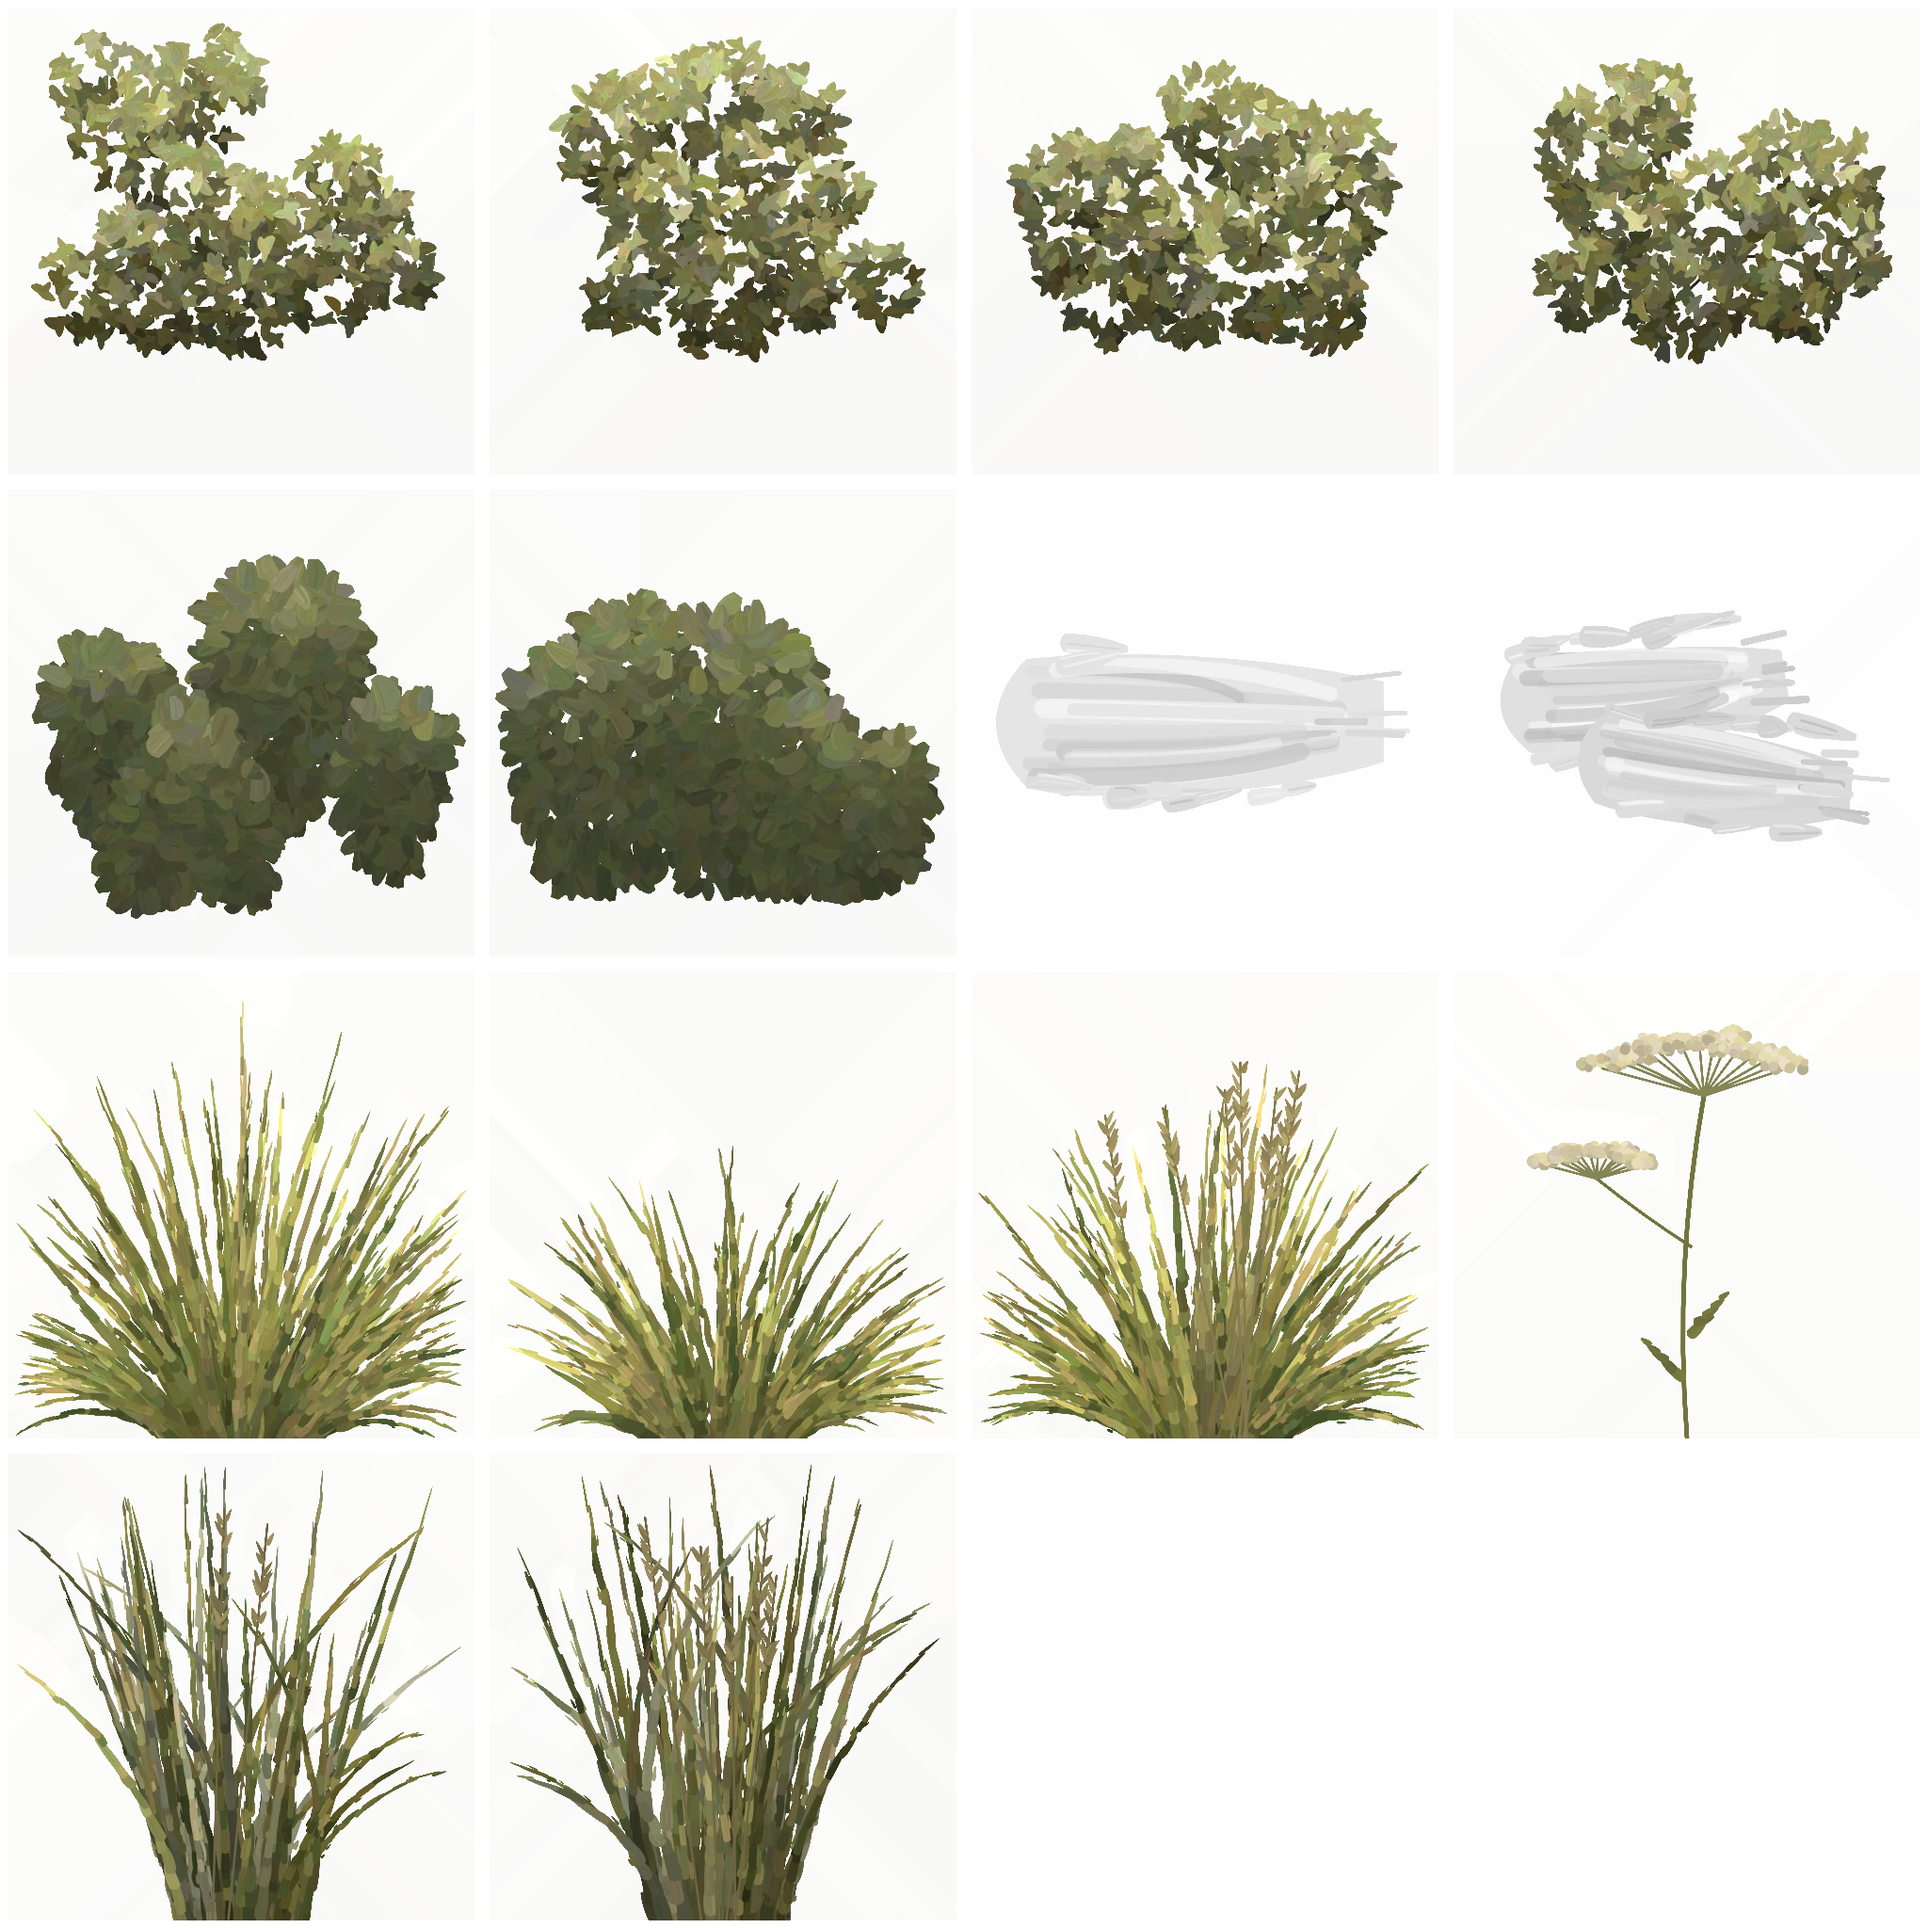
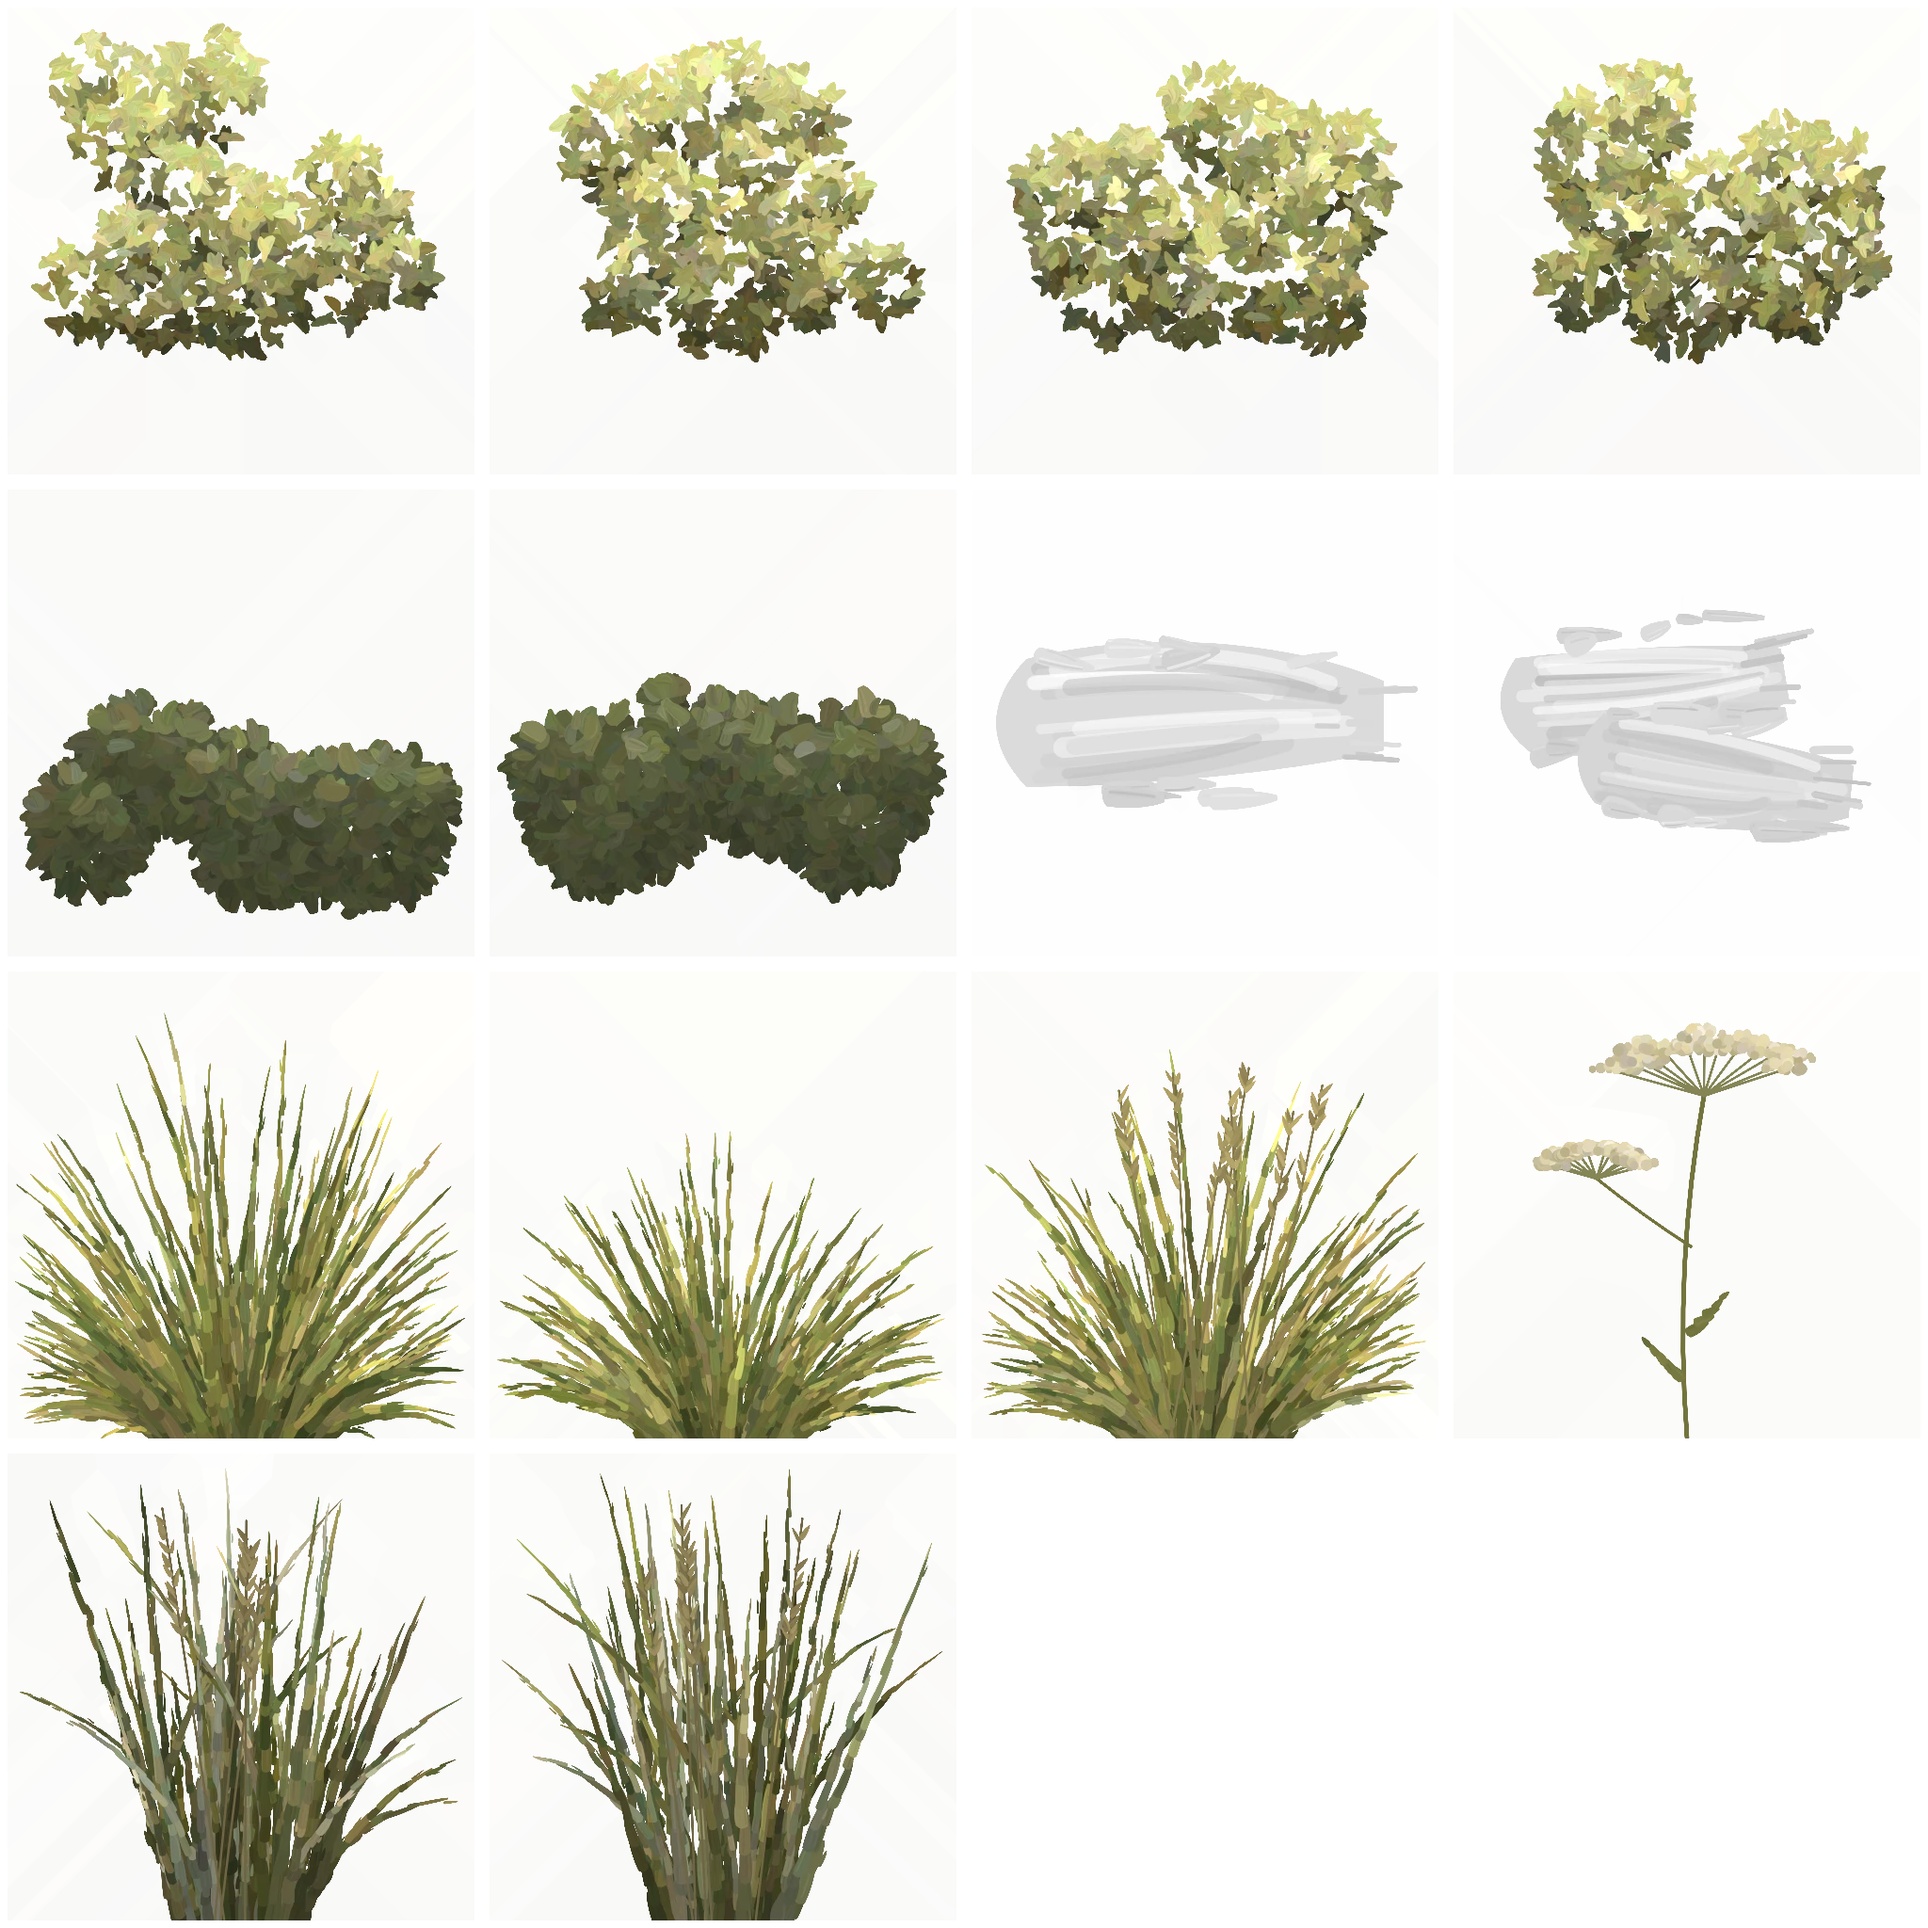
Brighten the oak cells at source, and break the woods skyline

diff --git a/public/space/scene/trees.js b/public/space/scene/trees.js
@@ -22,8 +22,6 @@ const stream = seed => { let n = 0; return () => hash(n++, 23, seed); };
 const SUN = [Math.sin(115 * DEG), Math.cos(115 * DEG), 0];
 // The trunk keeps this far inside its collider (space.colliders' circle) up to above head height.
 const TRUNK_CLEAR = .12;
-// The oak cells are painted for shade; lit from beneath the canopy they need lifting to read as the painting's sunlit leaves.
-const LEAF_LIFT = 1.75;
 
 // A point and radius `f` of the way along a polyline of [x, y, z, radius], by length.
 function along(points, f) {
@@ -93,7 +91,8 @@ export function buildOak(THREE, {space, dressing, art}) {
     // the spray runs outward from the trunk, so neighbouring clumps reach toward each other rather than rounding off
     const out = V.norm([clump.center[0] - ox, clump.center[1] - oy, 0]), side = [-out[1], out[0], 0], seed = hash(i, 0, 61) * 1000;
     const n = Math.round(10 + R * 10);
-    for (let k = 0, guard = 0; k < n && guard < n * 20; guard++) {
+    let k = 0;
+    for (let guard = 0; k < n && guard < n * 20; guard++) {
       // a point in a flattened, stretched ellipsoid, weighted to the shell, holed where the noise is low so sky shows through
       const u = r() * TAU, w = Math.acos(2 * r() - 1), f = Math.sqrt(.25 + .75 * r());
       const local = [Math.sin(w) * Math.cos(u) * f, Math.sin(w) * Math.sin(u) * f, Math.cos(w) * f];
@@ -103,7 +102,8 @@ export function buildOak(THREE, {space, dressing, art}) {
       // half the cards stand (facing outward, give or take), the rest lie tilted so the clump has body from beneath
       let normal, up;
       if (k % 2 === 0) {
-        const a = Math.atan2(c[0] - ox, c[1] - oy) + (r() - .5) * 2.2, tilt = (r() - .3) * .7;
+        // facing outward within ±40°, and tipped toward the ground so a visitor below never sees one edge-on
+        const a = Math.atan2(c[0] - ox, c[1] - oy) + (r() - .5) * 1.4, tilt = -(.4 + r() * .45);
         normal = V.norm([Math.sin(a) * Math.cos(tilt), Math.cos(a) * Math.cos(tilt), Math.sin(tilt)]);
         const [right, up0] = basis(normal), turn = (r() - .5) * .5; up = V.add(V.scale(up0, Math.cos(turn)), right, Math.sin(turn));
       } else {
@@ -114,12 +114,13 @@ export function buildOak(THREE, {space, dressing, art}) {
       const across = V.norm(V.cross(up, normal)), size = .75 + r() * .5;
       // lighter and warmer up top and on the sun side, darker and cooler beneath and deep inside
       const h = clamp01((c[2] - zLow) / (zHigh - zLow)), sun = V.dot(out, SUN), depth = 1 - f, under = clamp01(-local[2]);
-      const k0 = LEAF_LIFT * (1.0 + .5 * h + .2 * sun) * (1 - .22 * depth) * (1 - .22 * under) * (.9 + r() * .2);
-      const top = mix([k0 * .84, k0 * .94, k0 * 1.0], [k0 * 1.1, k0 * 1.04, k0 * .74], clamp01(h + .3 * sun));
+      const k0 = (.86 + .26 * h + .1 * sun) * (1 - .2 * depth) * (1 - .2 * under) * (.94 + r() * .12);
+      const top = mix([k0 * .88, k0 * .96, k0 * 1.0], [k0 * 1.04, k0 * 1.0, k0 * .82], clamp01(h + .3 * sun));
       leaves.add(c, V.scale(across, size), V.scale(up, size), cells[Math.floor(r() * cells.length)], top.map(v => v * .8), top,
         V.norm(V.add(V.norm(V.sub(c, crown)), [0, 0, .7])), r() < .5);
       k++;
     }
+    if (k < n) throw new Error(`oak clump ${clump.id} placed only ${k} of ${n} leaf cards`);
     clumps.push({id: clump.id, start, count: leaves.count - start});
   });
 
@@ -127,6 +128,7 @@ export function buildOak(THREE, {space, dressing, art}) {
   const mesh = (name, geometry, material) => { const m = new THREE.Mesh(geometry, material); m.name = name; return m; };
   const merged = list => { const geometry = mergeGeometries(THREE, list); for (const x of list) x.dispose(); return geometry; };
   const leafMesh = mesh('leaves', leaves.geometry(THREE), cardMaterial(THREE, art.cards, SPACE_ART));
+  // Each clump's cards, for swaying it later: `start` and `count` are in cards (4 vertices and 6 indices per card), in build order.
   leafMesh.userData.clumps = clumps;
   const object = new THREE.Group(); object.name = 'oak';
   // the limbs take the trunk's tint, so the bark runs on unbroken where they leave it
@@ -144,27 +146,29 @@ export function buildWoods(THREE, {space, dressing, art}) {
   const SAGE = [1.22, 1.3, 1.12], MOSS = [1.24, 1.28, .9], FAR = [1.6, 1.72, 1.85], TRUNK = [.07, .06, .045];
   const far = Math.max(...plan.map(c => Math.hypot(c.center[0] - yard[0], c.center[1] - yard[1])));
   const near = Math.min(...plan.map(c => Math.hypot(c.center[0] - yard[0], c.center[1] - yard[1])));
-  for (const clump of plan) {
-    const [x, y, cz] = clump.center, ground = terrainHeight(space, x, y), tall = (cz - ground) / .55, R = clump.radius;
+  plan.forEach((clump, i) => {
+    // neighbours differ a good deal in height, so the crowns' tops step and overlap rather than repeat
+    const [x, y, cz] = clump.center, ground = terrainHeight(space, x, y), tall = Math.min(12, (cz - ground) / .55 * (.7 + .5 * hash(i, 3, 73))), R = clump.radius;
     const d = clamp01((Math.hypot(x - yard[0], y - yard[1]) - near) / (far - near)), hue = mix(SAGE, MOSS, noise(x * .08, y * .08, 71));
     const base = mix(hue, FAR, .6 * d), toYard = V.norm([yard[0] - x, yard[1] - y, 0]);
-    const n = Math.round(12 + R * 4 + tall);
+    const n = Math.round(10 + R * 4 + tall * 2.2);
     for (let k = 0; k < n; k++) {
-      // a crown narrowing upward, from a quarter of the way up to the top, its outline broken by the cards' own edges, and
-      // every fourth card low in the understorey so no sky shows under the mass
-      const h = Math.sqrt(r()), spread = R * 1.1 * (1 - .4 * h) * Math.sqrt(r()), a = r() * TAU;
-      const c = [x + Math.sin(a) * spread, y + Math.cos(a) * spread, ground + tall * (k % 4 ? .24 + .66 * h : .1 + .2 * h)];
+      // a crown from a quarter of the way up; its top cards are pushed out to the sides and a little down instead of piled on
+      // the crown, so the skyline is broad and ragged, not a dome; every fourth card is low in the understorey so no sky shows
+      // under the mass
+      const h = r(), top = h > .72, spread = R * (top ? .45 + r() * .55 : 1.2 * Math.sqrt(r())), a = r() * TAU;
+      const c = [x + Math.sin(a) * spread, y + Math.cos(a) * spread, ground + tall * (k % 4 ? .26 + .64 * h - (top ? .06 + .08 * r() : 0) : .1 + .2 * h)];
       const turn = (r() - .5) * 1.6, normal = V.norm([toYard[0] * Math.cos(turn) - toYard[1] * Math.sin(turn), toYard[0] * Math.sin(turn) + toYard[1] * Math.cos(turn), (r() - .5) * .3]);
       const [right, up0] = basis(normal), lean = (r() - .5) * .3, up = V.add(V.scale(up0, Math.cos(lean)), right, Math.sin(lean)), across = V.norm(V.cross(up, normal));
       const size = (1.5 + r() * 1.0) * (.75 + .25 * R / 4), k0 = (.9 + .12 * h) * (.95 + r() * .1);
-      cards.add(c, V.scale(across, size), V.scale(up, size * .9), cells.woods[k % 2], base.map(v => v * k0 * .85), base.map(v => v * k0),
+      cards.add(c, V.scale(across, size * 1.05), V.scale(up, size), cells.woods[k % 2], base.map(v => v * k0 * .85), base.map(v => v * k0),
         V.norm(V.add(toYard, [0, 0, 1])), r() < .5);
     }
     for (let k = 0; k < 2; k++) {
       const tx = x + (r() - .5) * R * .6, ty = y + (r() - .5) * R * .6, toward = V.norm([yard[0] - tx, yard[1] - ty, 0]), g = terrainHeight(space, tx, ty);
       cards.add([tx, ty, g + tall * .2], [-toward[1] * .07, toward[0] * .07, 0], [0, 0, tall * .2], cells.dab[0], mix(TRUNK, FAR, .1 * d), mix(TRUNK, FAR, .1 * d), toward);
     }
-  }
+  });
   const object = new THREE.Group(); object.name = 'woods';
   const masses = new THREE.Mesh(cards.geometry(THREE), cardMaterial(THREE, art.cards, SPACE_ART)); masses.name = 'masses';
   object.add(masses);

diff --git a/scripts/space-painter/painter.js b/scripts/space-painter/painter.js
@@ -353,7 +353,11 @@ const CARDS = {
     let area = 0; // leaf count follows the mass's area so every spray is equally dense
     for (let y = 0; y < n; y += 8) for (let x = 0; x < n; x += 8) if (lobes.some(l => Math.hypot(x - l.x, y - l.y) < l.rad)) area += 64;
     const leaves = canvas(n), lg = leaves.getContext('2d', {willReadFrequently: true});
-    leafMass(lg, r, n, {lobes, holes, count: area * .0062, leaf: [10 * k, 19 * k], rosette: true, light: s.leafLight, mid: s.leaf, dark: s.leafDark, contrast: .8, calm: .2, taper: .75});
+    // The painting's oak is sunlit from behind the viewer's right: its lit leaves are lifted and warmed past the sampled mean, the
+    // shadowed ones only a little, so the cells carry the canopy's own light and the scene's tint stays near 1.
+    const lift = (from, k, warm) => ({pick: () => mix(mul(from.pick(), k), [214, 206, 120], warm), mean: mix(mul(from.mean, k), [214, 206, 120], warm)});
+    leafMass(lg, r, n, {lobes, holes, count: area * .0062, leaf: [10 * k, 19 * k], rosette: true, light: lift(s.leafLight, 1.24, .22), mid: lift(s.leaf, 1.3, .12),
+      dark: lift(s.leafDark, 1.18, 0), contrast: .8, calm: .2, taper: .75});
     // Twigs follow the branching from each lobe's parent to it, only in the shadowed lower part (the lit top has none), and only
     // where leaves cover both ends, so a twig shows through gaps in the mass but never ends in open sky. Leaves go over them.
     const cover = leaves.getContext('2d').getImageData(0, 0, n, n).data, covered = (x, y) => {
@@ -366,14 +370,19 @@ const CARDS = {
     }
     g.drawImage(leaves, 0, 0);
   },
-  // Distant tree masses: broad, flat-bottomed domes in a narrow sage-to-moss range, blunt strokes, softly lit tops.
+  // Distant tree masses: a broad, flat-bottomed band of several overlapping crowns at uneven heights, wider than tall, with a
+  // ragged top of small lobes breaking the skyline, in a narrow sage-to-moss range, blunt strokes, softly lit tops.
   woods(g, r, n, i, s) {
-    const k = n / 512, count = 4 + (r() * 2 | 0), floor = n * (.86 + r() * .05), lobes = [];
+    const k = n / 512, count = 6 + (r() * 3 | 0), floor = n * (.86 + r() * .05), lobes = [];
     for (let q = 0; q < count; q++) {
-      const rad = (52 + r() * 40) * k, rx = rad * 1.15, x = clamp(60 * k + (q + .5) / count * (n - 120 * k) + (r() - .5) * 30 * k, rx + 28 * k, n - rx - 28 * k);
-      lobes.push({x, y: clamp(n * (.4 + r() * .24) - (q === count >> 1 ? 60 * k : 0), rad + 28 * k, n), rad, rx, column: true});
+      const rad = (30 + r() * 26) * k, rx = rad * (1.5 + r() * .5), x = clamp(40 * k + (q + .5) / count * (n - 80 * k) + (r() - .5) * 24 * k, rx + 28 * k, n - rx - 28 * k);
+      lobes.push({x, y: clamp(n * (.5 + r() * .2), rad + 28 * k, n), rad, rx, column: true});
     }
-    leafMass(g, r, n, {lobes, floor, count: 1300 * k * k, leaf: [18 * k, 34 * k], rosette: false, light: s.woodsLight, mid: s.woods, dark: s.woodsDark, contrast: .5, calm: .45, taper: .6});
+    for (let q = 0, tufts = 7 + (r() * 5 | 0); q < tufts; q++) { // small lobes riding the tops, so no crown ends in a clean dome
+      const base = lobes[r() * count | 0], rad = (12 + r() * 14) * k, x = clamp(base.x + (r() - .5) * base.rx * 1.6, rad + 28 * k, n - rad - 28 * k);
+      lobes.push({x, y: clamp(base.y - base.rad * (.7 + r() * .5), rad + 28 * k, n), rad, rx: rad * (.8 + r() * .6)});
+    }
+    leafMass(g, r, n, {lobes, floor, count: 1300 * k * k, leaf: [16 * k, 30 * k], rosette: false, light: s.woodsLight, mid: s.woods, dark: s.woodsDark, contrast: .5, calm: .45, taper: .6});
   },
   // Neutral light dabs (the scene tints them): one long loaded stroke, or a pair; ragged where the bristles run dry.
   dab(g, r, n, i) {
